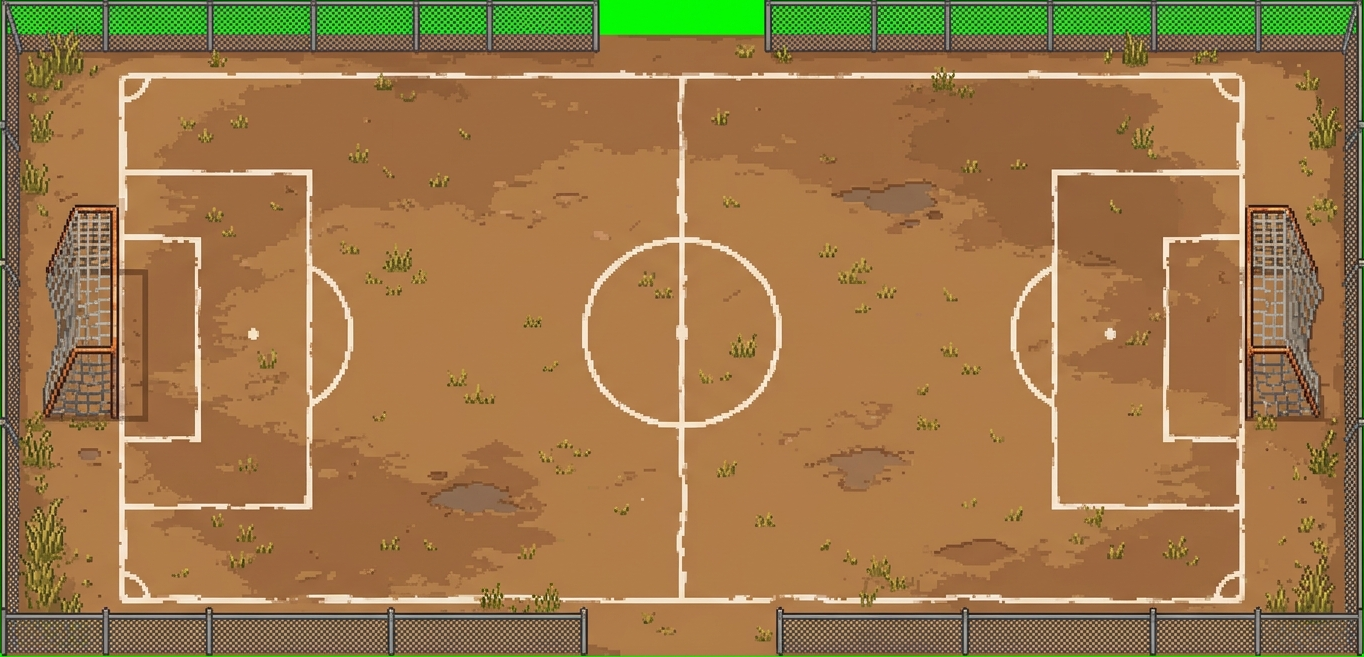
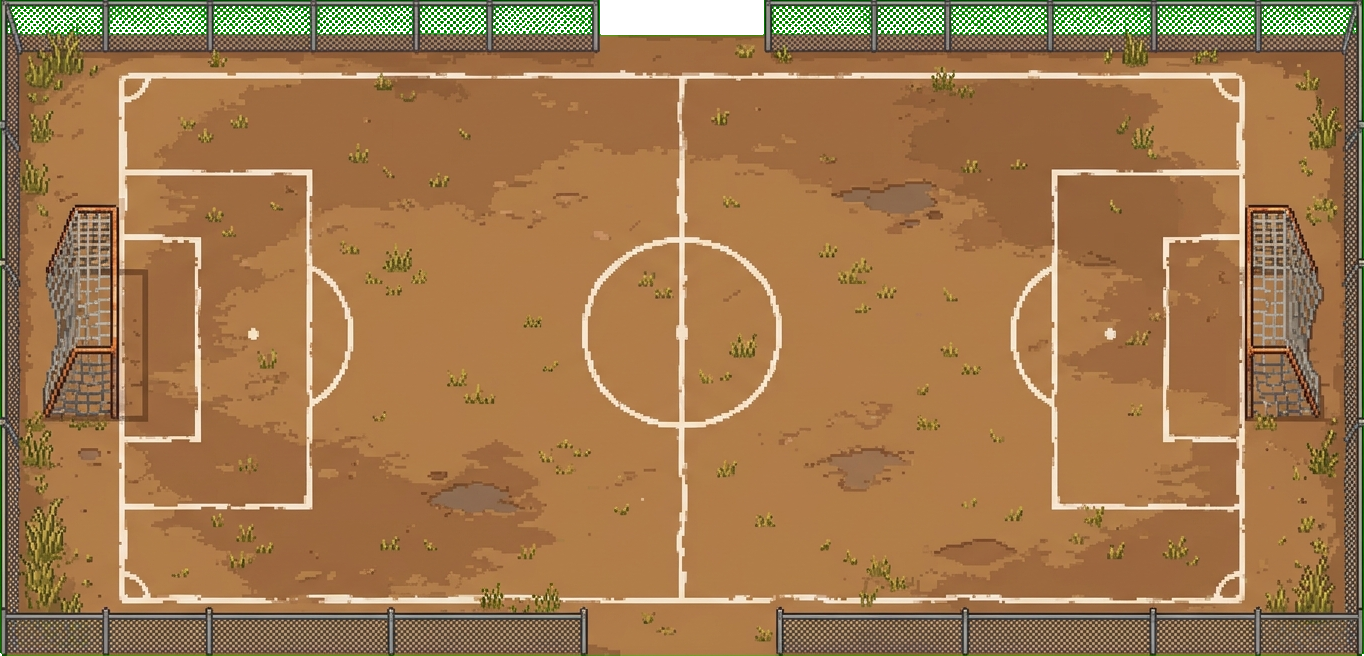
fix: smooth ball movement, pixel-art rival sprites, remove green chroma borders
- Ball now lerps smoothly between positions instead of teleporting, with
  a rotating pentagon pattern that spins proportional to movement speed
- Replace procedural drawSprite() for rivals with preloaded pixel-art
  sprite images (red/green/purple per league), eliminating color flickering
- Replace procedural home sprites with pixel-art player-run sprite sheets
- Remove green chroma-key borders from all 14 stadium images (pitch + front)
- Add dark background behind PrematchScreen stadium image container

https://claude.ai/code/session_01QwiCsWCkCcvwjjVQw8CnPL

diff --git a/src/pages/Rabona.jsx b/src/pages/Rabona.jsx
@@ -10,6 +10,19 @@ import {
 } from "@/game/data";
 import { getStadiumPitch } from "@/assets/stadiums";
 import { simulateMatch, PLAY_STYLES, INTENSITIES, getManOfTheMatch } from "@/game/engine";
+
+// ─── Preload sprite images ───
+const spriteModules = import.meta.glob('/src/assets/chibi/icons/{player-sprites,rival-sprites}/*.png', { eager: true, query: '?url', import: 'default' });
+const spriteCache = {};
+for (const [path, url] of Object.entries(spriteModules)) {
+  const name = path.split('/').pop().replace('.png', '');
+  const img = new Image();
+  img.src = url;
+  spriteCache[name] = img;
+}
+function getRivalSpriteColor(league) {
+  return ['red', 'green', 'purple', 'red', 'green', 'purple', 'red'][league % 7];
+}
 import { PlayerDetailModal, ParticleSystem } from "@/game/components";
 import { CareerCreateScreen, CareerCardScreen, CareerMatchScreen, CareerSeasonEnd, CareerEndScreen } from "@/game/CareerScreens";
 import useGameStore from "@/game/store";
@@ -62,6 +75,7 @@ export default function Rabona() {
     const eventResolveRef = useRef(null);
     const penaltyResolveRef = useRef(null);
     const pitchImgRef = useRef(null);
+    const ballDrawX = useRef(0.5), ballDrawY = useRef(0.5), ballAngle = useRef(0);
     const sim = useRef({ ps: 0, rs: 0, minute: 0, speed: 2, ballX: .5, ballY: .5, possession: true, log: [], done: false, rivalName: '', rivalPlayers: [], morale: 50, strategy: 'balanced', shots: 0, possCount: 0, totalTicks: 0, pendingEvent: null, halftimeShown: false, goalEffect: 0, pendingPenalty: null });
     const [display, setDisplay] = useState({ ps: 0, rs: 0, minute: 0, speed: 2, log: [], done: false, morale: 50, pendingEvent: null, strategy: 'balanced', pendingPenalty: null });
 
@@ -73,6 +87,7 @@ export default function Rabona() {
       simRef.current = true;
       sim.current = { ps: 0, rs: 0, minute: 0, speed: 2, ballX: .5, ballY: .5, possession: true, log: [], done: false, rivalName: match.rival?.name || 'Rival', rivalPlayers: match.rivalPlayers || [], morale: 50, strategy: 'balanced', shots: 0, possCount: 0, totalTicks: 0, pendingEvent: null, halftimeShown: false, goalEffect: 0, pendingPenalty: null };
       hpxRef.current = []; hpyRef.current = []; apxRef.current = []; apyRef.current = [];
+      ballDrawX.current = 0.5; ballDrawY.current = 0.5; ballAngle.current = 0;
       Crowd.start();
       const di = setInterval(() => { const s = sim.current; setDisplay({ ps: s.ps, rs: s.rs, minute: s.minute, speed: s.speed, log: [...s.log.slice(-4)], done: s.done, morale: s.morale, pendingEvent: s.pendingEvent, strategy: s.strategy, pendingPenalty: s.pendingPenalty }); }, 150);
       const ci = setInterval(() => { const s = sim.current; Crowd.setIntensity(s.morale / 100); }, 1000);
@@ -480,7 +495,12 @@ export default function Rabona() {
         ctx.fillStyle = 'rgba(255,255,255,0.6)';
         ctx.fillRect(W / 2 - gpw / 2, m - 1, gpw, gph); ctx.fillRect(W / 2 - gpw / 2, H - m - gph + 1, gpw, gph);
       }
-      const bpx = m + fw * S.ballX, bpy = m + fh * S.ballY;
+      // Smooth ball interpolation
+      ballDrawX.current += (S.ballX - ballDrawX.current) * 0.08;
+      ballDrawY.current += (S.ballY - ballDrawY.current) * 0.08;
+      const dx = S.ballX - ballDrawX.current, dy = S.ballY - ballDrawY.current;
+      ballAngle.current += Math.sqrt(dx * dx + dy * dy) * 80;
+      const bpx = m + fw * ballDrawX.current, bpy = m + fh * ballDrawY.current;
       const homeFormation = [{ bx: .5, by: .88, pull: .005, minY: .78, maxY: .95 }, { bx: .25, by: .70, pull: .02, minY: .55, maxY: .82 }, { bx: .75, by: .70, pull: .02, minY: .55, maxY: .82 }, { bx: .5, by: .52, pull: .06, minY: .35, maxY: .70 }, { bx: .5, by: .35, pull: .08, minY: .15, maxY: .60 }];
       const awayFormation = [{ bx: .5, by: .12, pull: .005, minY: .05, maxY: .22 }, { bx: .3, by: .28, pull: .02, minY: .18, maxY: .45 }, { bx: .7, by: .28, pull: .02, minY: .18, maxY: .45 }, { bx: .5, by: .42, pull: .06, minY: .30, maxY: .60 }, { bx: .5, by: .55, pull: .08, minY: .35, maxY: .80 }];
       const homeSpreadX = [0, -0.22, 0.22, 0, 0], awaySpreadX = [0, -0.18, 0.18, 0, 0];
@@ -516,27 +536,53 @@ export default function Rabona() {
       }
       const hStarters = game.roster.filter(p => p.role === 'st').sort((a, b) => POS_ORDER[a.pos] - POS_ORDER[b.pos]);
       const rKit = getRivalKit(game.league || 0);
+      const spriteSize = 28;
+      const rivalColor = getRivalSpriteColor(game.league || 0);
+      // Home team sprites
       for (let i = 0; i < 5; i++) {
         const px = hpxRef.current[i] + Math.sin(f * .016 + i * 1.3) * 1.5, py = hpyRef.current[i] + Math.sin(f * .013 + i) * 1.2;
-        const isGK = i === 0 || (hStarters[i] && hStarters[i].pos === 'GK');
         ctx.globalAlpha = 1;
-        drawSprite(ctx, px, py, '#1565c0', '#0d47a1', f, i + 100, isGK);
+        const hFrame = Math.floor(f / 10) % 6 + 1;
+        const hKey = `player-run-${hFrame}`;
+        const hSprite = spriteCache[hKey];
+        if (hSprite && hSprite.complete && hSprite.naturalWidth) {
+          ctx.drawImage(hSprite, px - spriteSize / 2, py - spriteSize / 2, spriteSize, spriteSize);
+        } else {
+          drawSprite(ctx, px, py, '#1565c0', '#0d47a1', f, i + 100, i === 0);
+        }
         ctx.fillStyle = 'rgba(0,0,0,0.75)'; ctx.font = 'bold 9px sans-serif'; ctx.textAlign = 'center';
-        ctx.fillText(hStarters[i] ? hStarters[i].name.split(' ').pop().substring(0, 8) : '', px, py + 22);
+        ctx.fillText(hStarters[i] ? hStarters[i].name.split(' ').pop().substring(0, 8) : '', px, py + 18);
         ctx.textAlign = 'left';
       }
+      // Rival team sprites
       for (let i = 0; i < 5; i++) {
         const px = apxRef.current[i] + Math.sin(f * .018 + i * 1.5) * 1.5, py = apyRef.current[i] + Math.sin(f * .015 + i * 1.1) * 1.2;
         ctx.globalAlpha = 1;
-        drawSprite(ctx, px, py, rKit[0], rKit[1], f, i + 200, i === 0);
+        const isGK = i === 0;
+        let rKey;
+        if (isGK) {
+          rKey = `rival-gk-idle-${(Math.floor(f / 15) % 4) + 1}`;
+        } else {
+          const rFrame = Math.floor(f / 12) % 2 + 1;
+          rKey = `rival-${rivalColor}-run-${rFrame}`;
+        }
+        const rSprite = spriteCache[rKey];
+        if (rSprite && rSprite.complete && rSprite.naturalWidth) {
+          ctx.drawImage(rSprite, px - spriteSize / 2, py - spriteSize / 2, spriteSize, spriteSize);
+        } else {
+          drawSprite(ctx, px, py, rKit[0], rKit[1], f, i + 200, isGK);
+        }
         ctx.fillStyle = 'rgba(0,0,0,0.75)'; ctx.font = 'bold 9px sans-serif'; ctx.textAlign = 'center';
-        ctx.fillText(S.rivalPlayers[i] ? S.rivalPlayers[i].name.split(' ').pop().substring(0, 8) : '', px, py + 22);
+        ctx.fillText(S.rivalPlayers[i] ? S.rivalPlayers[i].name.split(' ').pop().substring(0, 8) : '', px, py + 18);
         ctx.textAlign = 'left';
       }
-      const bs = 12;
-      ctx.fillStyle = 'rgba(0,0,0,0.18)'; ctx.beginPath(); ctx.ellipse(bpx + 1, bpy + bs * 0.6, bs * 0.6, bs * 0.2, 0, 0, Math.PI * 2); ctx.fill();
-      ctx.fillStyle = '#fff'; ctx.beginPath(); ctx.arc(bpx, bpy, 5, 0, Math.PI * 2); ctx.fill();
-      ctx.fillStyle = '#333'; ctx.beginPath(); ctx.arc(bpx, bpy, 1.5, 0, Math.PI * 2); ctx.fill();
+      // Ball with smooth rotation
+      ctx.fillStyle = 'rgba(0,0,0,0.18)'; ctx.beginPath(); ctx.ellipse(bpx + 1, bpy + 8, 5, 2, 0, 0, Math.PI * 2); ctx.fill();
+      ctx.save(); ctx.translate(bpx, bpy); ctx.rotate(ballAngle.current);
+      ctx.fillStyle = '#fff'; ctx.beginPath(); ctx.arc(0, 0, 5, 0, Math.PI * 2); ctx.fill();
+      ctx.fillStyle = '#333';
+      for (let p = 0; p < 5; p++) { const a = (Math.PI * 2 / 5) * p; ctx.beginPath(); ctx.arc(Math.cos(a) * 3, Math.sin(a) * 3, 1.2, 0, Math.PI * 2); ctx.fill(); }
+      ctx.restore();
       particlesRef.current.update(ctx);
       if (shakeRef.current > 5) { ctx.fillStyle = shakeRef.current > 12 ? 'rgba(240,192,64,0.15)' : 'rgba(255,23,68,0.1)'; ctx.fillRect(0, 0, W, H); }
       ctx.restore();

diff --git a/src/game/screens/PrematchScreen.jsx b/src/game/screens/PrematchScreen.jsx
@@ -57,7 +57,7 @@ export default function PrematchScreen() {
         {isCopaMatch && <div style={{ fontSize: 12, color: '#fff', marginTop: 4, background: 'rgba(255,0,0,0.3)', padding: '3px 10px', borderRadius: 4, fontWeight: 700 }}>💀 PERDER = FIN DE LA CARRERA</div>}
       </div>
       {getStadiumFront(game.league) ? (
-        <div style={{ position: 'relative', overflow: 'hidden', maxHeight: 140 }}>
+        <div style={{ position: 'relative', overflow: 'hidden', maxHeight: 140, background: '#0a1628' }}>
           <img src={getStadiumFront(game.league)} alt={st.n} style={{ width: '100%', display: 'block', objectFit: 'cover', objectPosition: 'top' }} />
           <div style={{ position: 'absolute', bottom: 0, left: 0, right: 0, background: 'linear-gradient(transparent, rgba(0,0,0,0.85))', padding: '16px 16px 6px' }}>
             <div style={{ fontFamily: "'Oswald'", fontWeight: 600, fontSize: 14, color: st.c, textTransform: 'uppercase', textShadow: '0 1px 4px rgba(0,0,0,0.8)' }}>{st.n}</div>
